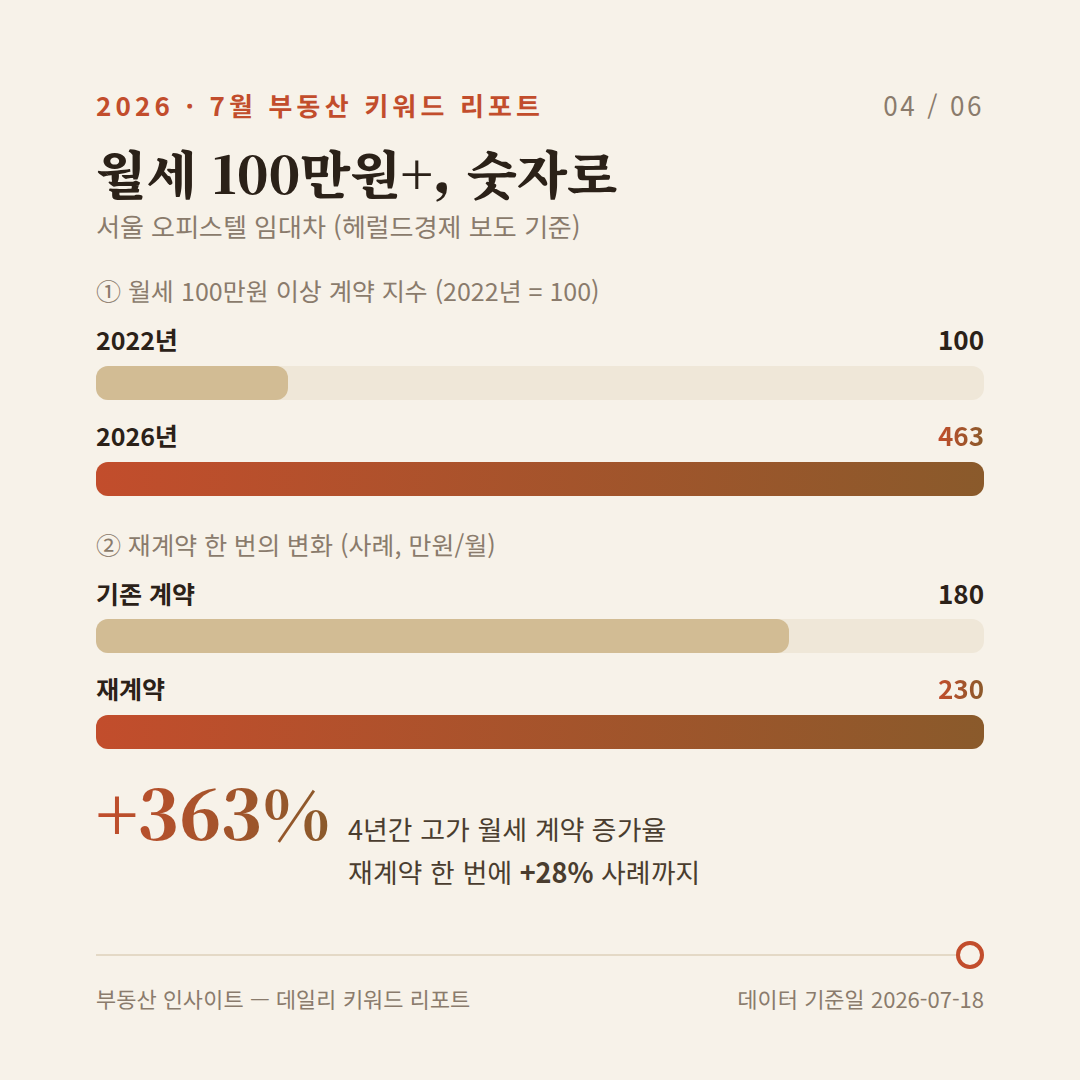
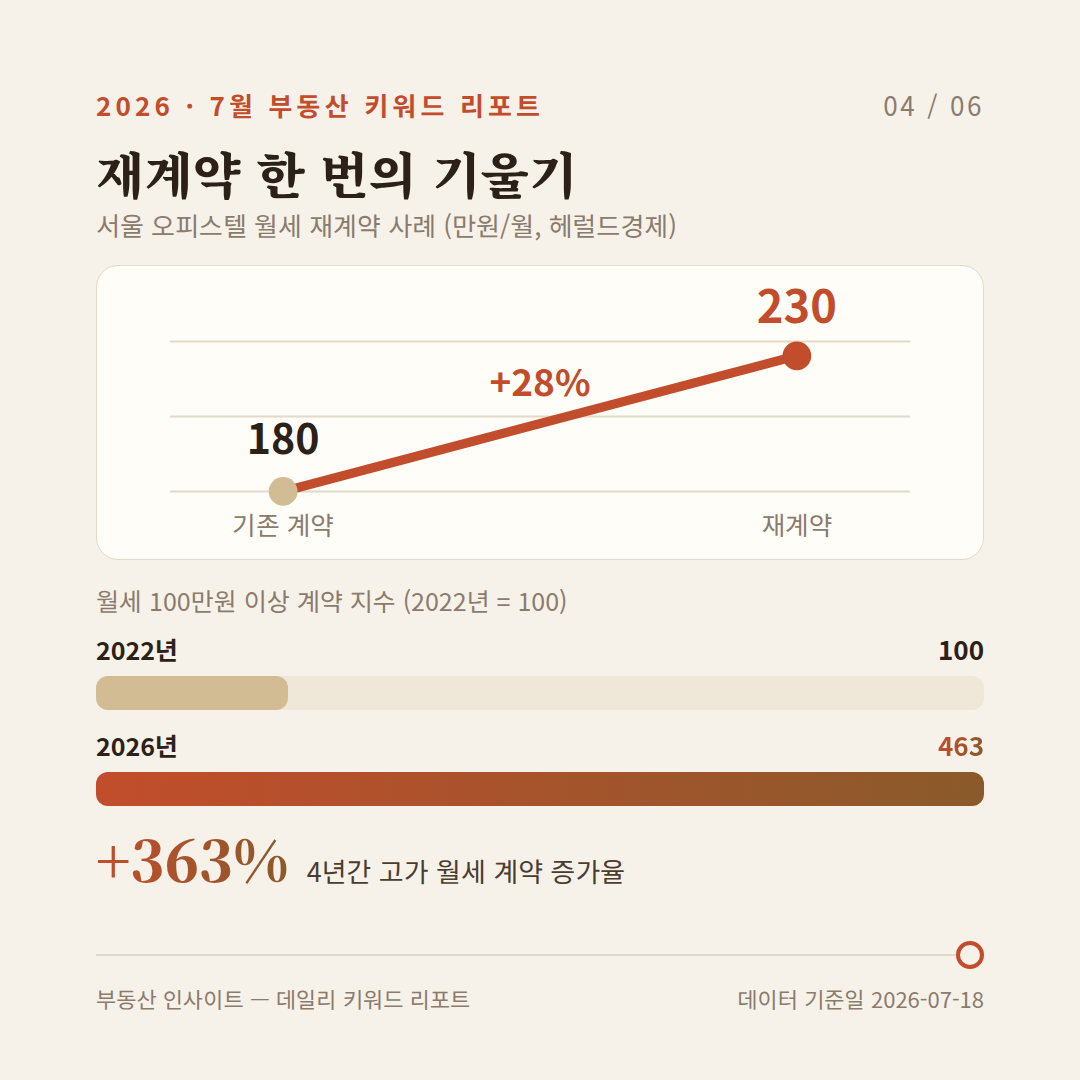
Vary chart forms: slope chart for renewal case on card 4 and post
Card 4 now leads with an SVG slope chart (180 to 230, +28%) instead of
another horizontal bar stack, so cards 3/4/5 each use a distinct form
(columns / slope / bars). The post's renewal chart uses the same slope
form, and the form-diversity rule is added to the viz standards.

Claude-Session: https://claude.ai/code/session_014FPhCKpii9mVmDWMzN6gma

Changed region(s): [[0.0917, 0.2444, 0.9167, 0.825], [0.0917, 0.1222, 0.6417, 0.275]]

diff --git a/posts/2026-07-18-wolse100.html b/posts/2026-07-18-wolse100.html
@@ -254,12 +254,21 @@ footer a{color:var(--teal)}
     <div class="cap">전세는 한 분기 만에 상승폭이 두 배 가까이(+0.24→+0.40) 커졌고, 월세가 가장 가파릅니다.</div>
 
     <h4>월세 재계약 사례 (만원/월)</h4>
-    <div class="bar"><label>기존 계약</label>
-      <div class="rail"><div class="fill gray" style="width:78%">180만원</div></div></div>
-    <div class="bar"><label>재계약</label>
-      <div class="rail"><div class="fill" style="width:100%">230만원</div></div></div>
-    <div class="statrow"><span class="big">+28%</span>
-      <span class="desc">한 번의 재계약으로 늘어난 월 부담 (보도 사례)</span></div>
+    <svg viewBox="0 0 800 250" style="width:100%;max-width:560px;height:auto;display:block" role="img"
+      aria-label="월세 재계약 슬로프 차트: 기존 계약 180만원에서 재계약 230만원으로 28% 상승">
+      <line x1="40" y1="52"  x2="760" y2="52"  style="stroke:var(--line);stroke-width:2"/>
+      <line x1="40" y1="125" x2="760" y2="125" style="stroke:var(--line);stroke-width:2"/>
+      <line x1="40" y1="198" x2="760" y2="198" style="stroke:var(--line);stroke-width:2"/>
+      <line x1="150" y1="198" x2="650" y2="66" style="stroke:var(--teal);stroke-width:8;stroke-linecap:round"/>
+      <circle cx="150" cy="198" r="12" style="fill:var(--fillgray)"/>
+      <circle cx="650" cy="66" r="12" style="fill:var(--teal)"/>
+      <text x="150" y="164" text-anchor="middle" style="font-family:'Noto Sans KR',sans-serif;font-weight:900;font-size:36px;fill:var(--ink)">180</text>
+      <text x="650" y="36" text-anchor="middle" style="font-family:'Noto Sans KR',sans-serif;font-weight:900;font-size:40px;fill:var(--teal)">230</text>
+      <text x="400" y="105" text-anchor="middle" style="font-family:'Noto Sans KR',sans-serif;font-weight:900;font-size:34px;fill:var(--teal)">+28%</text>
+      <text x="150" y="238" text-anchor="middle" style="font-family:'Noto Sans KR',sans-serif;font-size:24px;fill:var(--mute)">기존 계약</text>
+      <text x="650" y="238" text-anchor="middle" style="font-family:'Noto Sans KR',sans-serif;font-size:24px;fill:var(--mute)">재계약</text>
+    </svg>
+    <div class="cap">한 번의 재계약으로 월 부담이 28% 늘어난 보도 사례.</div>
   </div>
 
   <h3>숫자로 보는 월세 100 시대</h3>

diff --git a/CLAUDE.md b/CLAUDE.md
@@ -24,6 +24,9 @@ URL: https://mkrealestate4s.github.io/mynews/
   repeating-gradient), 대형 스탯(.statrow). 회색 막대는 --fillgray(트랙과 구분), 값 라벨은 짧은
   막대 밖에 배치(.railval).
 - 단위·기간이 다른 수치를 한 축에 섞지 않는다(주간/분기/연간 분리).
+- **형태 다양화**: 인접한 차트·카드가 같은 형태(가로 막대 연속 등)로 반복되지 않게 한다.
+  시계열→세로 컬럼, 전/후 변화→슬로프(SVG 기울기 선), 크기 비교→가로 막대, 헤드라인→대형 스탯.
+  차트 주석 라벨은 막대 높이에 영향 없는 절대 위치 레이어에 그린다.
 - 카드뉴스도 그래프 우선: 표지+흐름+데이터 3~4장+체크리스트, 6장 구성 기본.
 
 ## 검증 체크리스트 (푸시 전)
